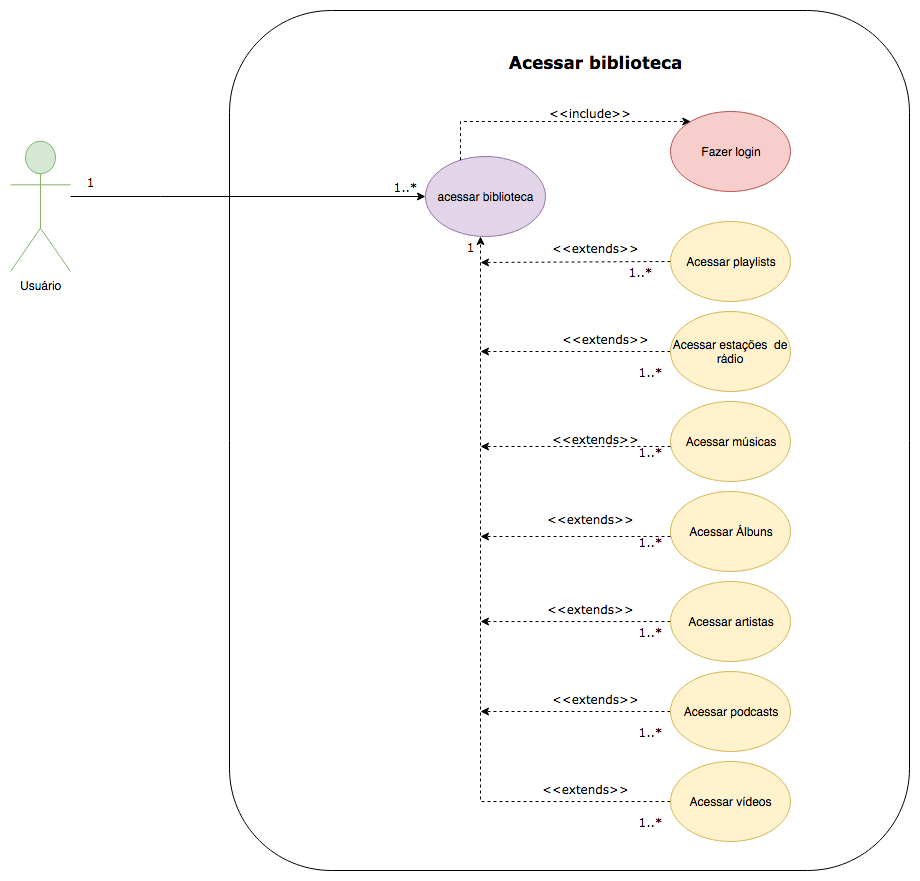
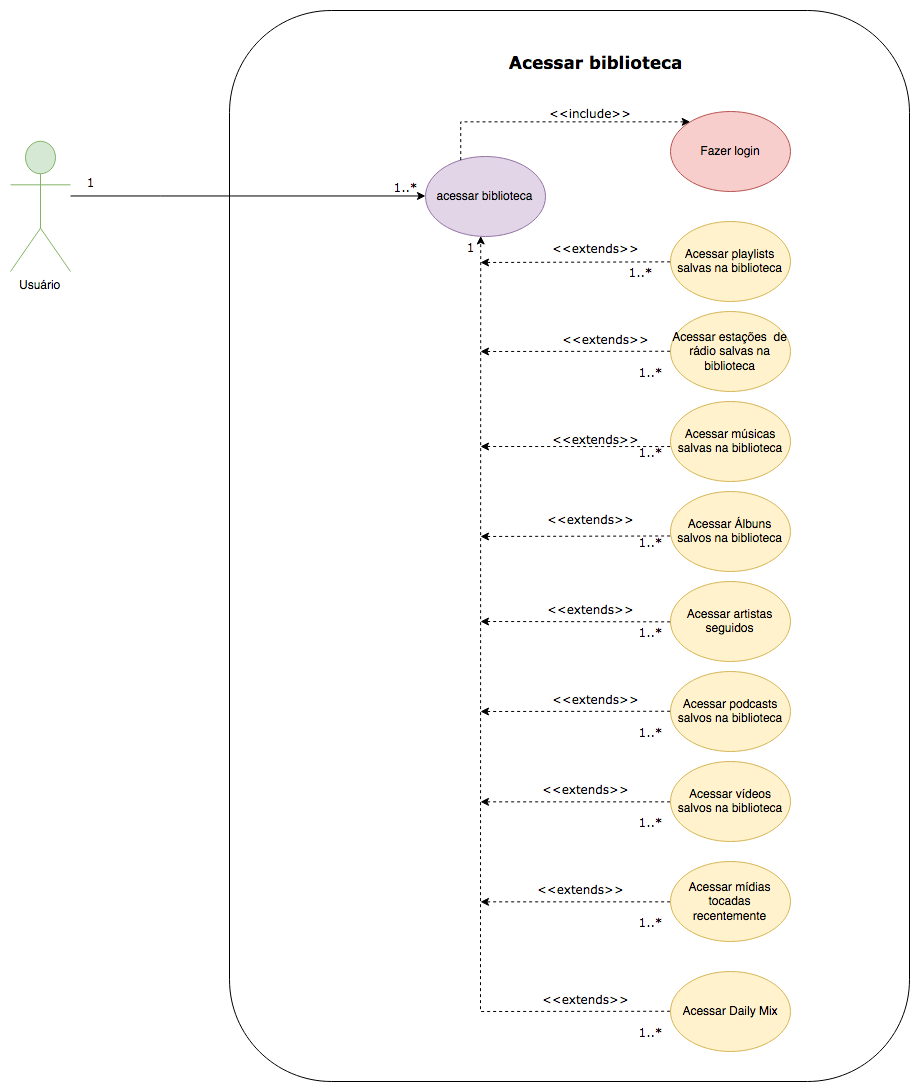
Atualizando caso de uso e espec suplementar

diff --git a/docs/Modulos/Modelagem/especificacao-suplementar.md b/docs/Modulos/Modelagem/especificacao-suplementar.md
@@ -6,6 +6,7 @@
 | 17/04/2018 | 0.2 | Finalidade, Definições e acrônimos e abreviações | Renato Valério |
 | 17/04/2018 | 0.3 | Requisitos de usabilidade, Requisitos de Sistema de Ajuda e de Documentação de Usuário On-line, Componentes de Terceiros, Requisitos de Licenciamento, Observações Legais, de Direitos Autorais etc | Amanda Bezerra |
 | 17/04/2018 | 0.4 | --- | Geovanne Santos |
+| 27/05/2018 | 0.5 | Atualização de requisitos funcionais de biblioteca | Eduardo Júnio |
 
 # 1.Introdução
 ## 1.1 Finalidade
@@ -41,7 +42,7 @@ O software de música permitirá que os assinantes possam ouvir qualquer álbum 
 
  Identificador | Funcionalidade
  --- | ---
-RF 01 | Acessar biblioteca
+RF 01 | Acessar biblioteca        (03, 47, 48, 12, 15, 22, 18, 26, 55, 56)
 RF 02 | Acessar opções de busca
 RF 03 | Acessar playlists
 RF 47 | Acessar podcasts na biblioteca
@@ -96,7 +97,10 @@ RF 41 | Seguir podcasts
 RF 42 | Seguir programas de videos
 RF 40 | Suporte técnico
 RF 30 | Ver gráficos de rendimento sobre seus álbuns
-
+RF 55 | Acessar álbuns salvos na biblioteca
+RF 56 | Acessar artistas seguidos na biblioteca
+RF 57 | Acessar mídias tocadas recentemente (biblioteca)
+RF 58 | Acessar Daily Mix (biblioteca)
 
 ## Requisitos não funcionais
 
